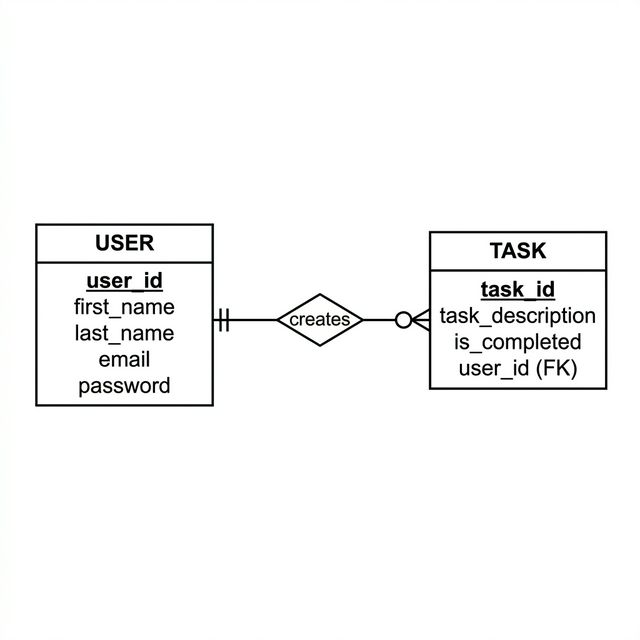
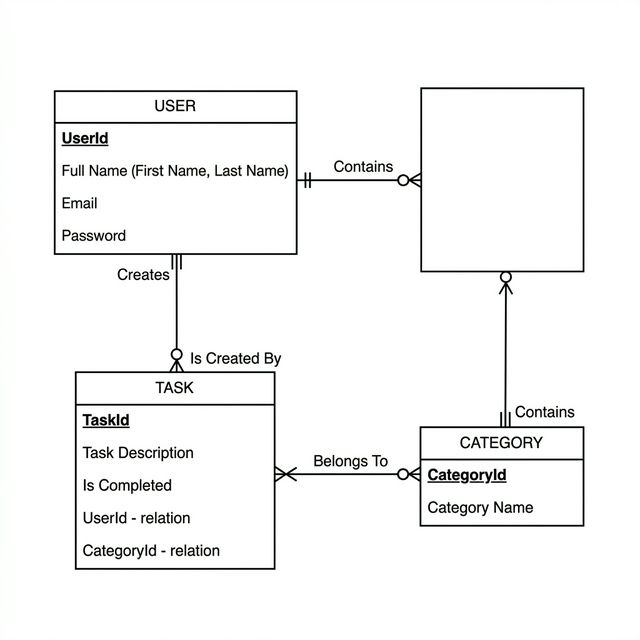
Resolve merge conflict in README.md and add Assignment 5 database implementation

Changed region(s): [[0.0312, 0.125, 0.9688, 0.9062], [0.0938, 0.125, 0.375, 0.2188]]

diff --git a/README.md b/README.md
@@ -5,30 +5,94 @@ A simple web-based to-do list application that helps users organize and manage t
 
 ## Business Rules
 
-### Relationship: USER creates TASK
-1. `<USER> <may> <create> <any number> <TASK>`
-   *A USER may create any number of TASKs. However, each TASK must be created by exactly one USER.*
-2. `<TASK> <must> <belong to> <exactly one> <USER>`
-   *Each TASK must be created by exactly one USER. However, a USER may have zero or more TASKs.*
+### User and Task Relationship
+- A USER may create many TASKs. A TASK is created by exactly one USER.
 
-## Entity Relationship Diagram (ERD)
+### Task and Category Relationship
+- Each TASK may belong to exactly one CATEGORY. A CATEGORY may contain many TASKs.
 
-![ERD](images/erd.png)
+## Database Design
 
-> [!NOTE]
-> The ERD above represents the relationship between Users and Tasks. A User can have multiple tasks, while each task belongs to a single User.
+### Entity Relationship Diagram (ERD)
+
+The following diagram illustrates the logical structure of our database using Mermaid notation, representing each entity as a box containing its attributes.
+
+```mermaid
+erDiagram
+    USER ||--o{ TASK : "creates"
+    CATEGORY ||--o{ TASK : "contains"
+
+    USER {
+        int user_id PK
+        string first_name
+        string last_name
+        string email
+        string password
+    }
+
+    TASK {
+        int task_id PK
+        string task_description
+        boolean is_completed
+        int user_id FK
+        int category_id FK
+    }
+
+    CATEGORY {
+        int category_id PK
+        string category_name
+    }
+```
+
+### Relational Schema
+
+The following relations (tables) consist of connected boxes for each attribute, specifically highlighting the **Primary Keys (PK)** and **Foreign Keys (FK)** as requested.
+
+#### 1. USER Relation
+| **user_id (PK)** | **first_name** | **last_name** | **email** | **password** |
+| :--- | :--- | :--- | :--- | :--- |
+
+#### 2. TASK Relation
+| **task_id (PK)** | **task_description** | **is_completed** | **user_id (FK)** | **category_id (FK)** |
+| :--- | :--- | :--- | :--- | :--- |
+
+#### 3. CATEGORY Relation
+| **category_id (PK)** | **category_name** |
+| :--- | :--- |
+
+> [!IMPORTANT]
+> - **Primary Keys (PK)** uniquely identify each record in its respective table.
+> - **Foreign Keys (FK)** establish the link between tables, ensuring data integrity.
+
+## Normalization (Assignment 5)
+
+This database design has been normalized to the **Third Normal Form (3NF)**:
+
+1.  **1st Normal Form (1NF)**:
+    - All attributes are atomic (no multi-valued or nested attributes).
+    - Each table has a unique Primary Key (`user_id` for Users, `task_id` for Tasks).
+2.  **2nd Normal Form (2NF)**:
+    - Meets all 1NF requirements.
+    - No partial dependencies exist. All non-key attributes depend on the entire primary key.
+3.  **3rd Normal Form (3NF)**:
+    - Meets all 2NF requirements.
+    - No transitive dependencies exist. Every non-key attribute depends only on the primary key.
 
 ## Features
 1. **User Authentication System**:
-   - User Registration (First name, Last name, Email, Password)
+   - User Registration (First Name, Last Name, Email, Password)
    - User Login
 2. **Task Management**:
    - Create, View, Edit, and Delete Tasks.
+   - Categorize tasks for better organization.
 3. **Navigation**:
    - Seamless navigation between Register, Login, and Task Management pages.
 
+## Database Implementation
+The SQL source code for creating the database schema can be found in [tables.sql](./tables.sql).
+
 ## Technologies Used
 - HTML5
-- CSS3 (Vanilla)
+- CSS
 - JavaScript
-- Database (Planned for future assignments)
+- MySQL (Database Schema implemented in [tables.sql](./tables.sql))